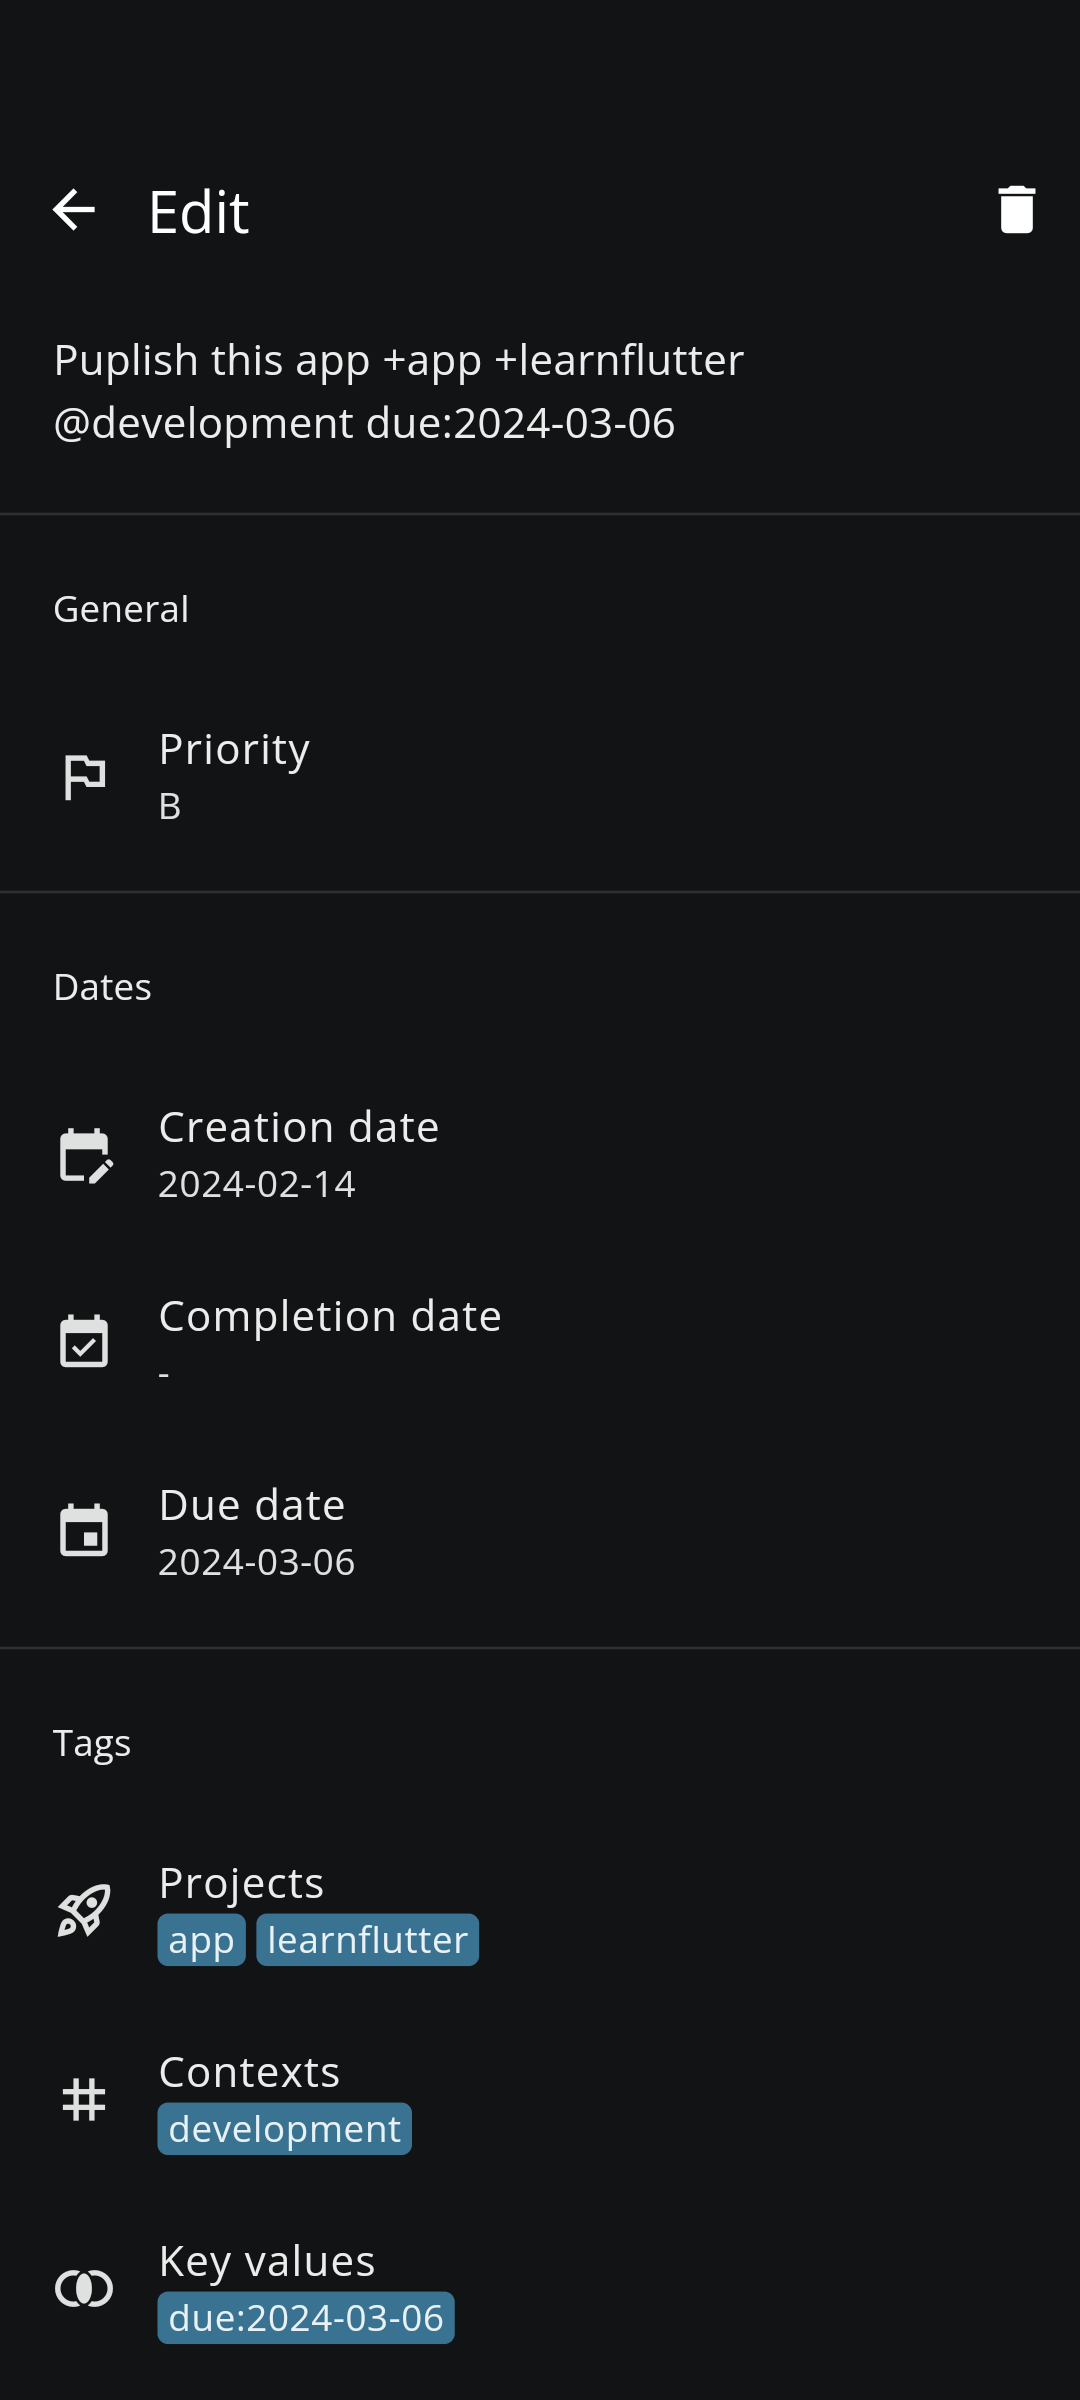
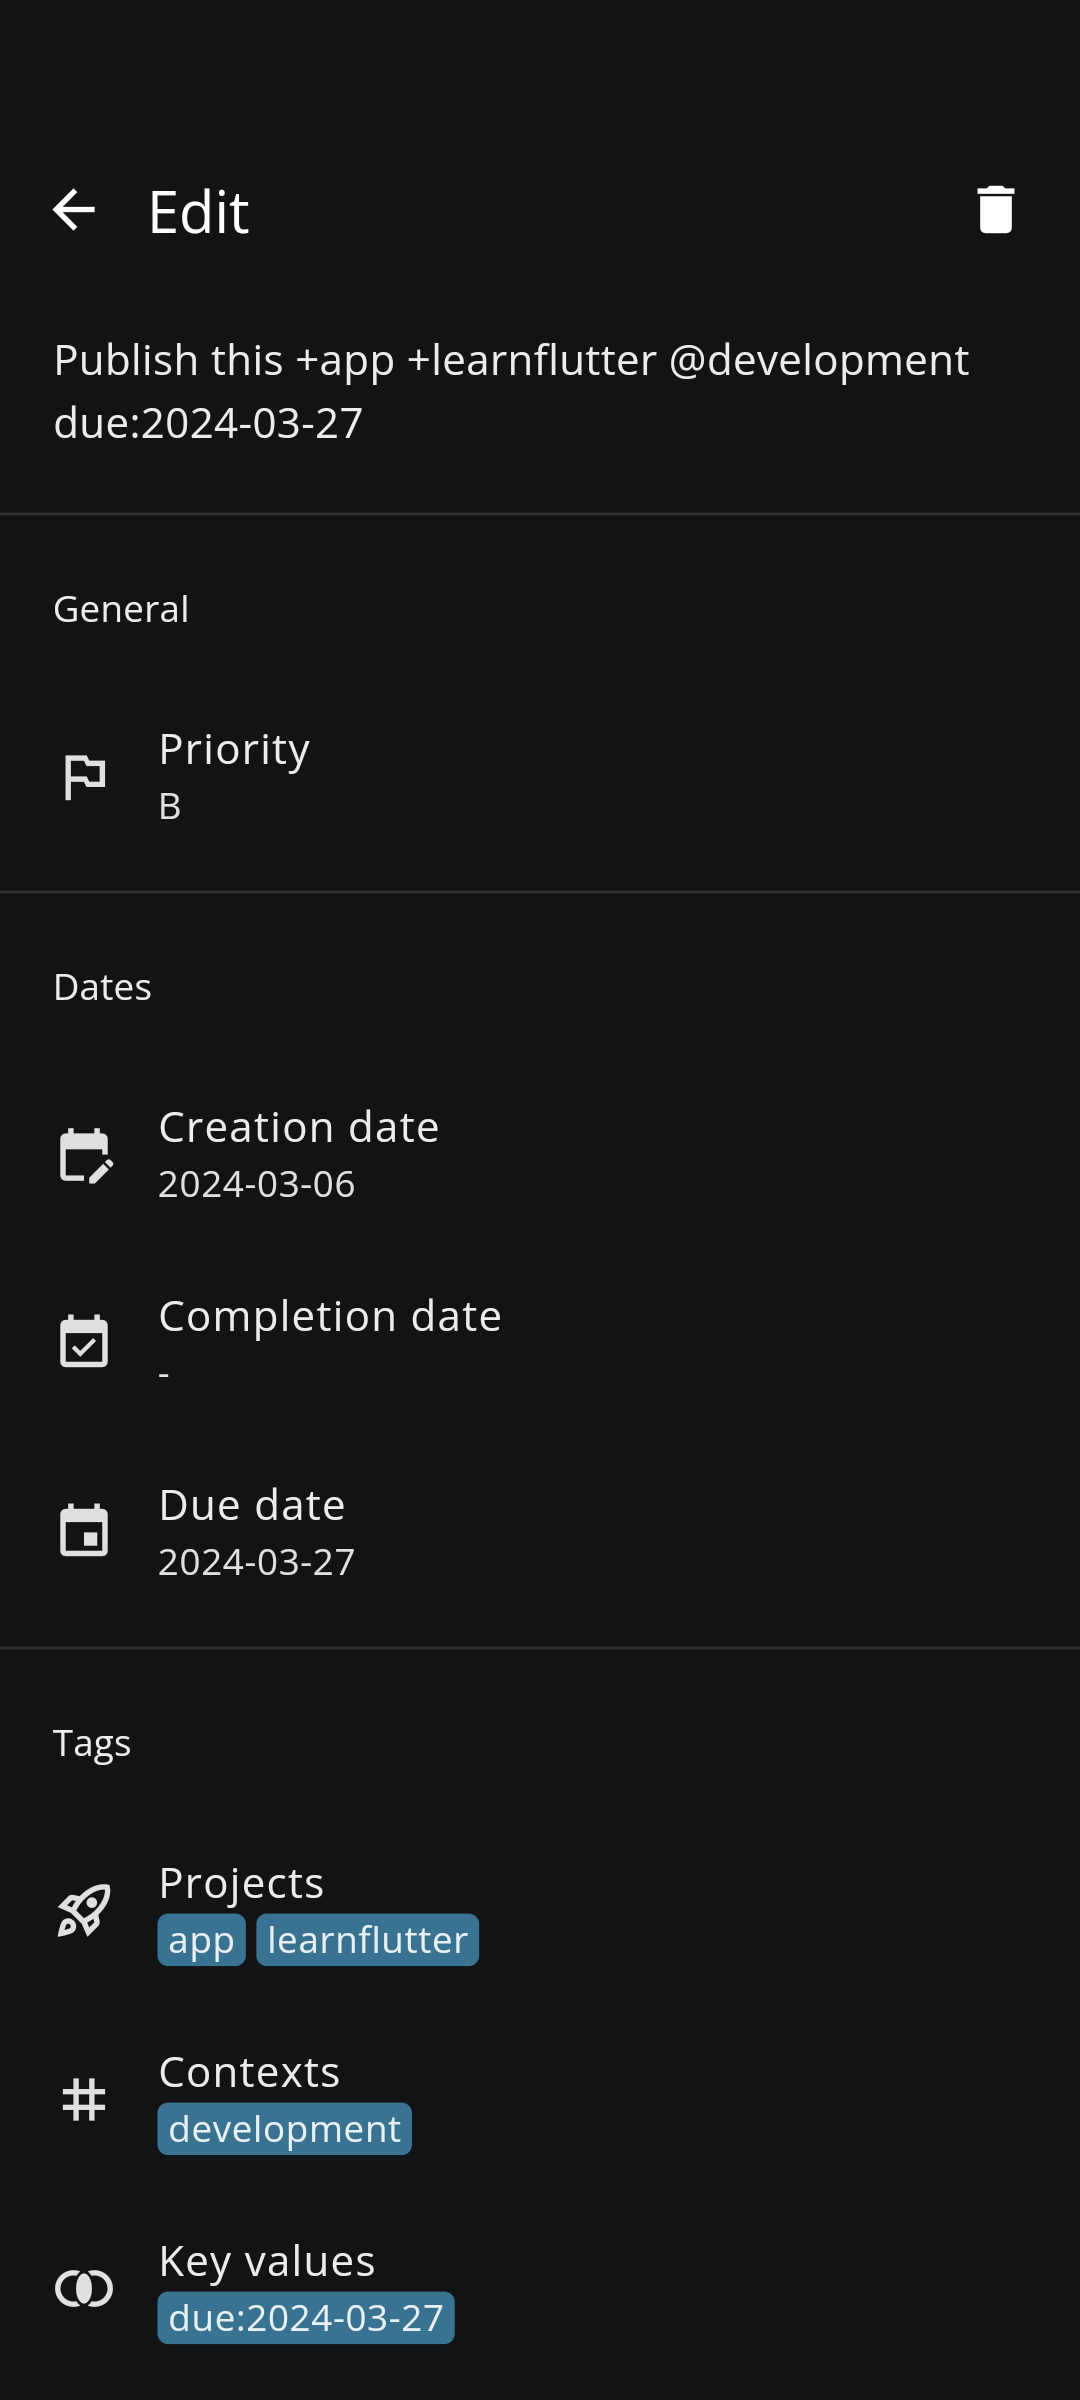
chore(screenshots): Update screenshots

diff --git a/integration_test/screenshot_integration_test.dart b/integration_test/screenshot_integration_test.dart
@@ -17,6 +17,7 @@ import 'package:ntodotxt/main.dart';
 import 'package:ntodotxt/presentation/drawer/states/drawer_cubit.dart';
 import 'package:ntodotxt/presentation/filter/states/filter_cubit.dart';
 import 'package:ntodotxt/presentation/filter/states/filter_list_bloc.dart';
+import 'package:ntodotxt/presentation/filter/states/filter_list_event.dart';
 import 'package:ntodotxt/presentation/login/states/login_cubit.dart';
 import 'package:ntodotxt/presentation/login/states/login_state.dart'
     show LoginLocal, LoginState, LoginWebDAV;
@@ -114,7 +115,7 @@ class AppTester extends StatelessWidget {
             create: (BuildContext context) => TodoFileCubit(
               repository: context.read<SettingRepository>(),
               defaultLocalPath: appCacheDir,
-            ),
+            )..load(),
           ),
           BlocProvider<DrawerCubit>(
             create: (BuildContext context) => DrawerCubit(),
@@ -124,12 +125,14 @@ class AppTester extends StatelessWidget {
             create: (BuildContext context) => FilterCubit(
               settingRepository: context.read<SettingRepository>(),
               filterRepository: context.read<FilterRepository>(),
-            ),
+            )..load(),
           ),
           BlocProvider<FilterListBloc>(
             create: (BuildContext context) => FilterListBloc(
               repository: context.read<FilterRepository>(),
-            ),
+            )
+              ..add(const FilterListSubscriped())
+              ..add(const FilterListSynchronizationRequested()),
           ),
         ],
         child: Builder(
@@ -161,25 +164,25 @@ void main() async {
       creationDate: today.subtract(const Duration(days: 7)),
       priority: Priority.A,
       description:
-          'Automate the generation of app screenshots +app +learnflutter @development @automation @productivity due:${Todo.date2Str(today.add(const Duration(days: 3)))!}',
+          'Automate the generation of +app screenshots +learnflutter @development @automation @productivity due:${Todo.date2Str(today.add(const Duration(days: 3)))!}',
     ),
     Todo(
       creationDate: today.subtract(const Duration(days: 14)),
       priority: Priority.B,
       description:
-          'Puplish this app +app +learnflutter @development due:${Todo.date2Str(today.add(const Duration(days: 7)))!}',
+          'Publish this +app +learnflutter @development due:${Todo.date2Str(today.add(const Duration(days: 7)))!}',
     ),
     Todo(
       creationDate: today.subtract(const Duration(days: 2)),
       description:
-          'Increase test coverage +app +learnflutter @development @testing @productivity',
+          'Increase test +coverage for this +app +learnflutter @development @testing @productivity',
     ),
     Todo(
       creationDate: today.subtract(const Duration(days: 2)),
       completion: true,
       completionDate: today.subtract(const Duration(days: 1)),
       description:
-          'Write some tests +app +learnflutter @development @testing @productivity',
+          'Write some tests for this +app +learnflutter @development @testing @productivity',
     ),
     Todo(
       creationDate: today.subtract(const Duration(days: 21)),
@@ -250,7 +253,10 @@ void main() async {
         );
         await tester.pumpAndSettle(const Duration(milliseconds: 5000));
 
-        await tester.tap(find.text('Puplish this app'));
+        await tester.tap(find.text(
+          'Publish this +app +learnflutter @development',
+          findRichText: true,
+        ));
         await tester.pumpAndSettle();
 
         await binding.convertFlutterSurfaceToImage();
